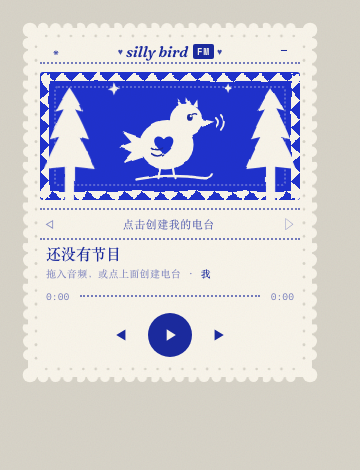
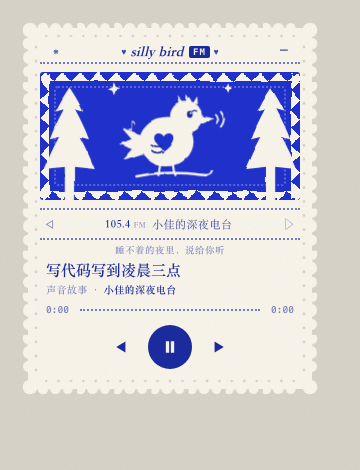
Update README screenshots for the four-window UI
Adds shot-share.png and refreshes the other three to reflect the
current layout (track list with tags, recording button, separate
分享 window). The ?seed=/?shot= dev helpers gained an idempotency
guard and explicit input sync so repeated screenshot captures don't
duplicate tracks or show placeholder text.

diff --git a/src/main.js b/src/main.js
@@ -562,7 +562,7 @@ makeDraggable(perch, perch, () => sbfm.classList.remove("collapsed"));
   const shot = new URLSearchParams(location.search).get("shot");
   if (shot) {
     winMain.hidden = shot !== "main";
-    const tgt = { main: winMain, station: winStation, look: winLook }[shot];
+    const tgt = { main: winMain, station: winStation, look: winLook, share: winShare }[shot];
     if (tgt) { tgt.hidden = false; tgt.style.left = "20px"; tgt.style.top = "20px"; tgt.dataset.placed = "1"; }
   }
   let theme = "blue";
@@ -604,8 +604,11 @@ makeDraggable(perch, perch, () => sbfm.classList.remove("collapsed"));
   // a friend's link?
   await loadGuestStation();
 
-  // dev helper: ?seed=1 imports a synthetic tone (used to e2e-test IDB persistence)
-  if (new URLSearchParams(location.search).has("seed")) {
+  // dev helper: ?seed=1 imports a synthetic tone (used to e2e-test IDB persistence and
+  // to populate demo content for README screenshots). Idempotent — a second load with
+  // the same flag (e.g. capturing several ?shot= screenshots in one warm profile) won't
+  // duplicate the track.
+  if (new URLSearchParams(location.search).has("seed") && !MY.pieces.some((p) => !p.placeholder)) {
     const rate = 8000, n = rate;
     const buf = new ArrayBuffer(44 + n * 2), dv = new DataView(buf);
     const wr = (o, s) => { for (let i = 0; i < s.length; i++) dv.setUint8(o + i, s.charCodeAt(i)); };
@@ -614,6 +617,12 @@ makeDraggable(perch, perch, () => sbfm.classList.remove("collapsed"));
     dv.setUint32(24, rate, true); dv.setUint32(28, rate * 2, true); dv.setUint16(32, 2, true); dv.setUint16(34, 16, true);
     wr(36, "data"); dv.setUint32(40, n * 2, true);
     for (let i = 0; i < n; i++) dv.setInt16(44 + i * 2, Math.sin(2 * Math.PI * 659 * i / rate) * 8000, true);
-    importFiles([new File([new Blob([buf], { type: "audio/wav" })], "示例音 E5.wav", { type: "audio/wav" })]);
+    MY.name = "小佳的深夜电台"; MY.owner = MY.name; MY.intro = "睡不着的夜里，说给你听"; MY.created = true;
+    importFiles([new File([new Blob([buf], { type: "audio/wav" })], "写代码写到凌晨三点.wav", { type: "audio/wav" })]);
+    setTimeout(() => { const p = MY.pieces[0]; if (p) { p.kind = "声音故事"; renderTrackList(); renderPiece(); } }, 50);
   }
+  // the ?shot=station debug path bypasses the normal dialMid-click open flow, which is
+  // what usually syncs these inputs from MY — sync them here too so the screenshot isn't
+  // stuck showing placeholder text
+  if (shot === "station") { chNameInput.value = MY.name; chIntroInput.value = MY.intro; }
 })();

diff --git a/README.md b/README.md
@@ -11,11 +11,13 @@
 一只常驻屏幕角落的小鸟，点开它就是一台可以在朋友的频道间来回切台的小电台，陪你 vibe-coding 时不再是一个人。
 
 <p align="center">
-  <img src="assets/shot-main.png" width="31%" alt="主界面 · 收音机" />
+  <img src="assets/shot-main.png" width="23%" alt="主界面 · 收音机" />
   &nbsp;
-  <img src="assets/shot-station.png" width="31%" alt="我的电台 · 命名与上传" />
+  <img src="assets/shot-station.png" width="23%" alt="我的电台 · 命名、上传与录音" />
   &nbsp;
-  <img src="assets/shot-look.png" width="31%" alt="外观 · 颜色与音量" />
+  <img src="assets/shot-look.png" width="23%" alt="外观 · 颜色与音量" />
+  &nbsp;
+  <img src="assets/shot-share.png" width="23%" alt="分享 · 生成链接" />
 </p>
 
 ## 视觉
@@ -24,8 +26,8 @@
 
 ## 现在就能做
 
-- **三扇可拖动的剪纸小窗**：收音机 / 我的电台（命名 + 一句话介绍 + 上传节目）/ 外观（颜色 + 音量）；小鸟收起时停在桌面一角，点开恢复原样
-- **拖入即播**：把音频拖到小鸟身上（或从面板上传），歌名 / 歌手 / 封面自动从 ID3 标签读取
+- **四扇可拖动的剪纸小窗**：收音机 / 我的电台（命名 + 一句话介绍 + 上传或按住录音）/ 外观（颜色 + 音量）/ 分享（生成链接）；小鸟收起时停在桌面一角，点开恢复原样
+- **拖入即播**：把音频拖到小鸟身上（或从面板上传，也可按住录音），歌名 / 歌手 / 封面自动从 ID3 标签读取
 - **刷新不丢**：上传的节目保存在浏览器 IndexedDB 里，下次打开还在
 - **系统媒体键**：键盘播放键 / 耳机线控直接控制小鸟（MediaSession）
 - **完全离线的资源**：字体与解析库全部自托管，零外部 CDN 依赖，弱网也稳